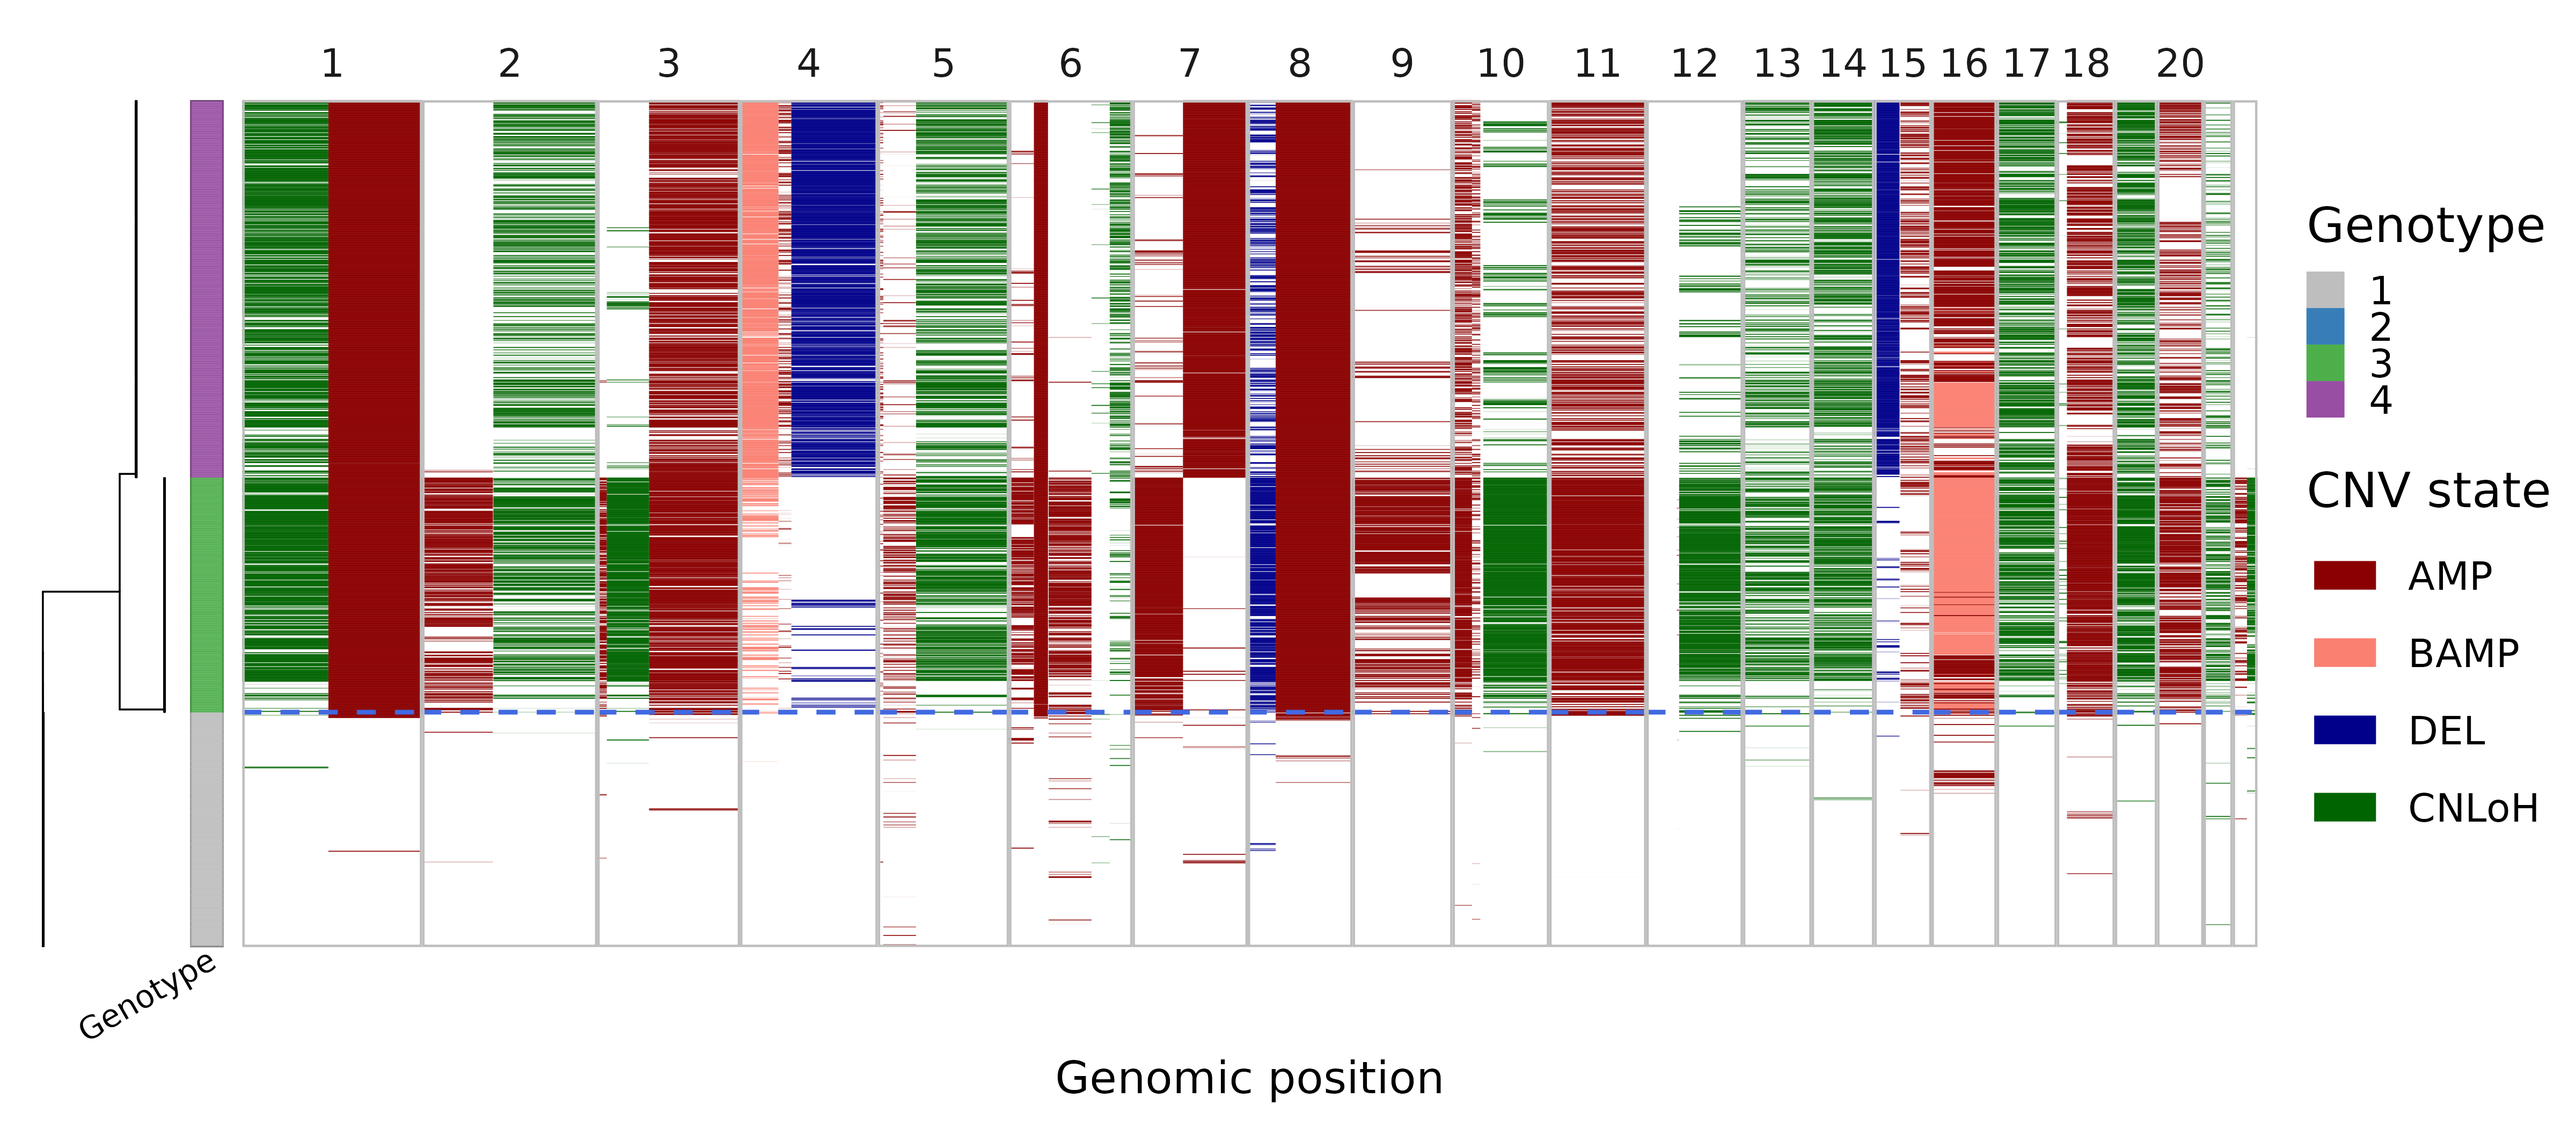
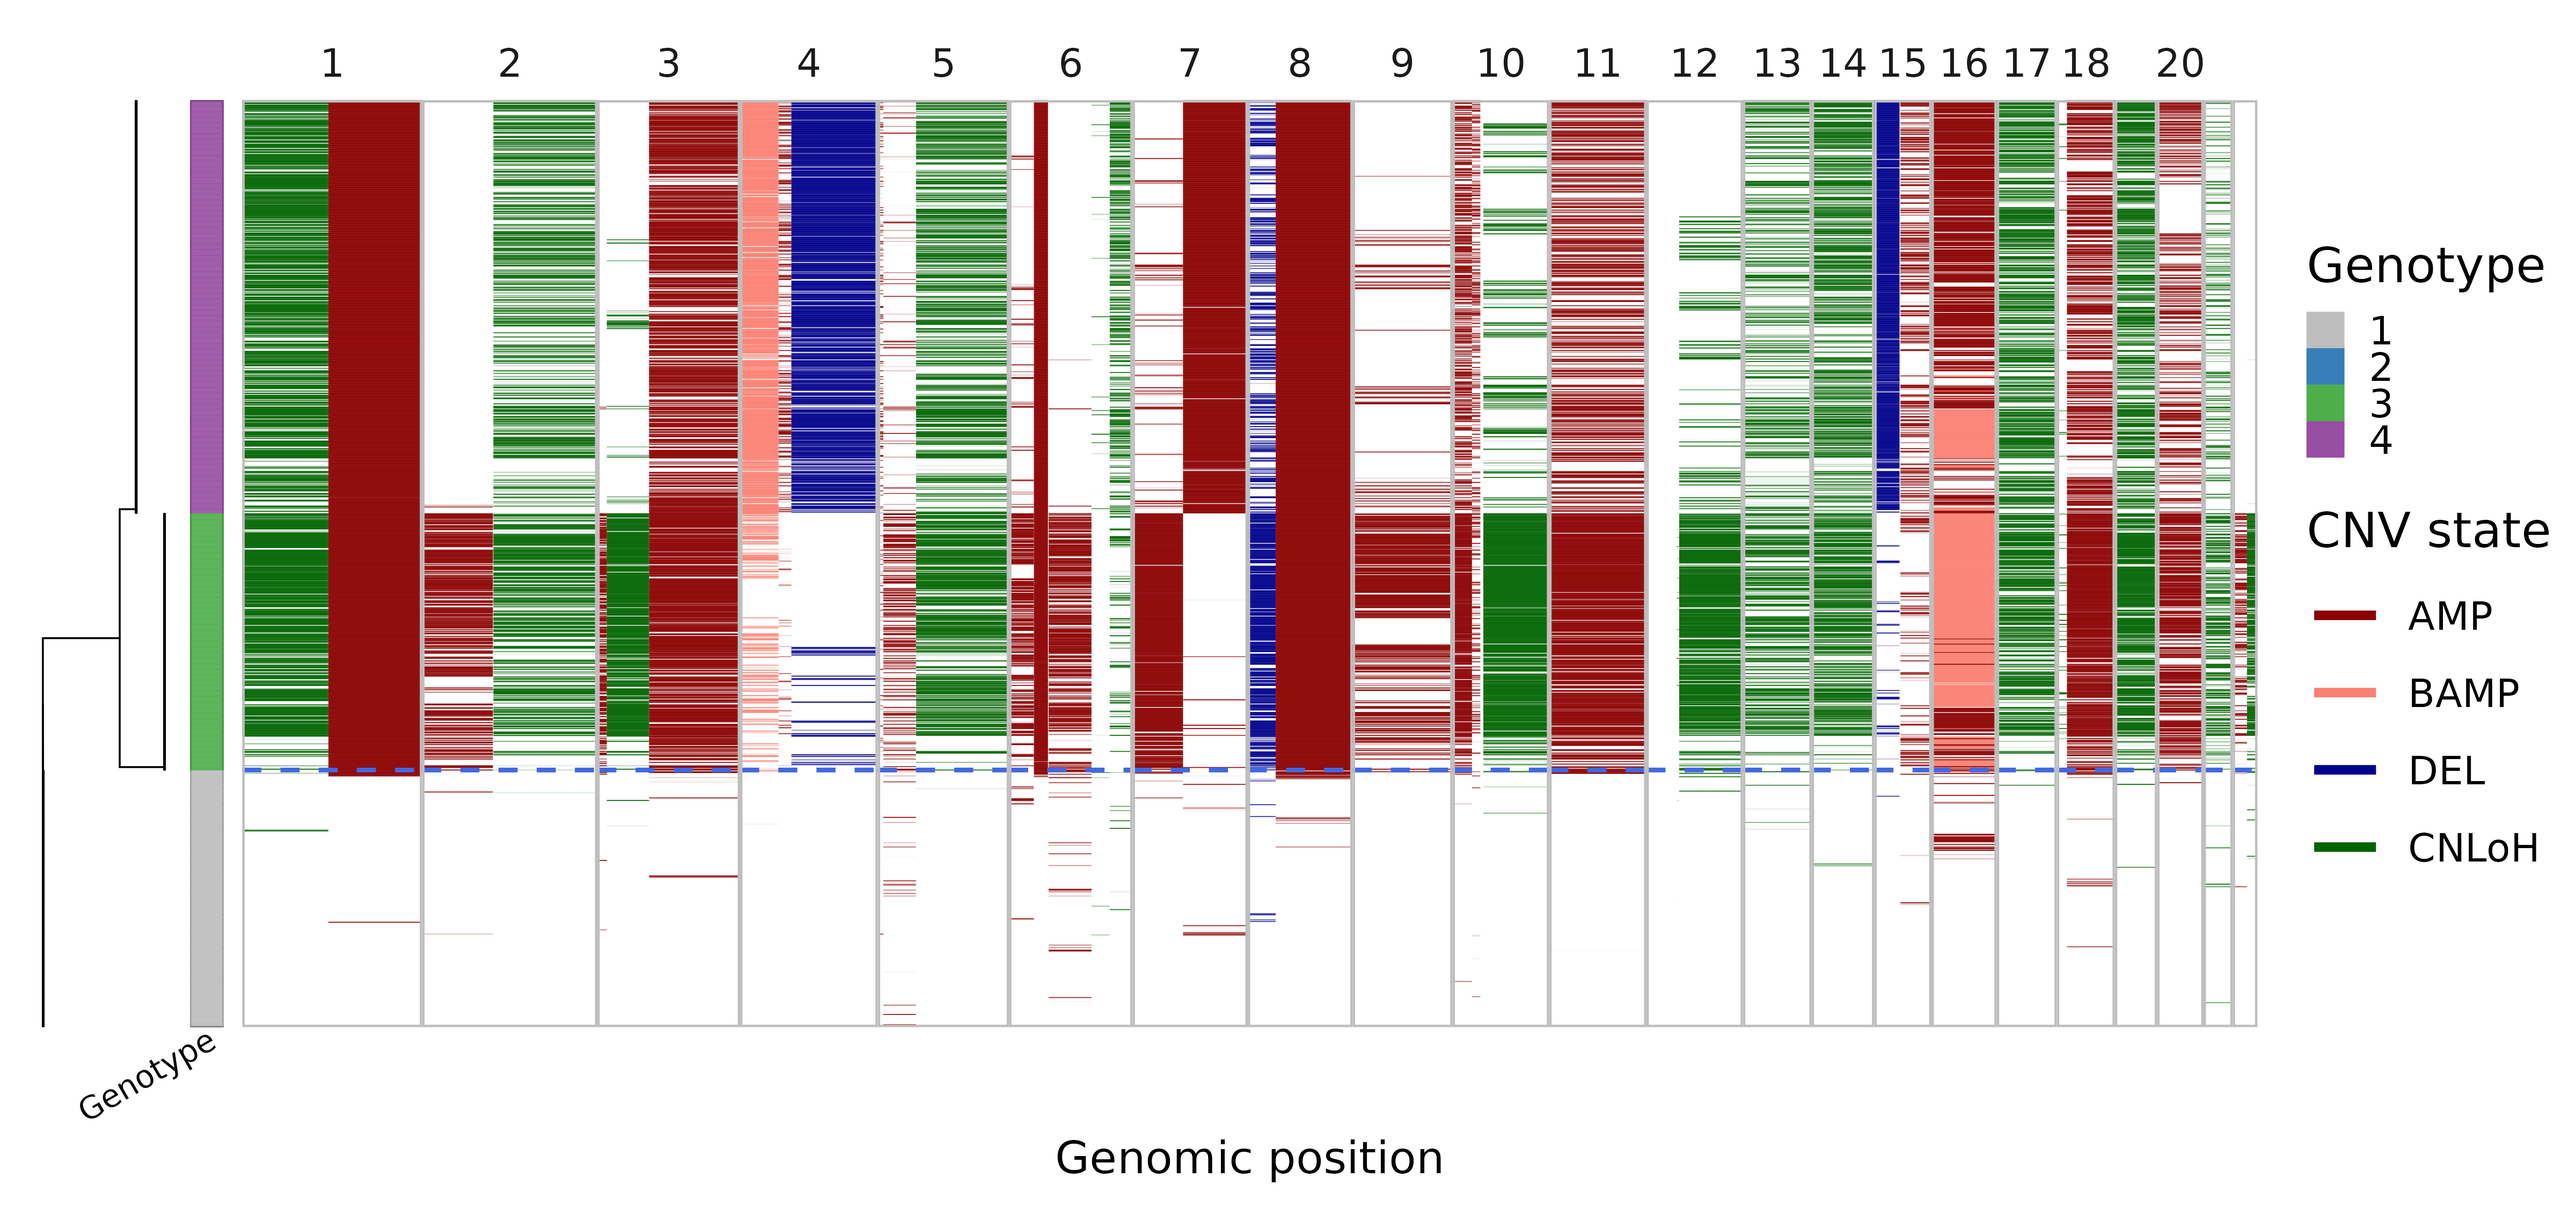
figure size

diff --git a/docs/articles/results.html b/docs/articles/results.html
@@ -137,9 +137,9 @@
   <span class="fu"><a href="https://dplyr.tidyverse.org/reference/filter.html" class="external-link">filter</a></span><span class="op">(</span><span class="va">n_cells</span> <span class="op">&gt;</span> <span class="fl">50</span><span class="op">)</span> <span class="op"><a href="https://magrittr.tidyverse.org/reference/pipe.html" class="external-link">%&gt;%</a></span>
   <span class="fu"><a href="../reference/plot_bulks.html">plot_bulks</a></span><span class="op">(</span>
     min_LLR <span class="op">=</span> <span class="fl">10</span>, <span class="co"># filtering CNVs by evidence</span>
-    legend <span class="op">=</span> <span class="cn">FALSE</span>
+    legend <span class="op">=</span> <span class="cn">TRUE</span>
   <span class="op">)</span></code></pre></div>
-<p><img src="results_files/figure-html/unnamed-chunk-7-1.png" width="3600"></p>
+<p><img src="results_files/figure-html/unnamed-chunk-7-1.png" width="3900"></p>
 </div>
 <div class="section level2">
 <h2 id="single-cell-cnv-calls">Single-cell CNV calls<a class="anchor" aria-label="anchor" href="#single-cell-cnv-calls"></a>
